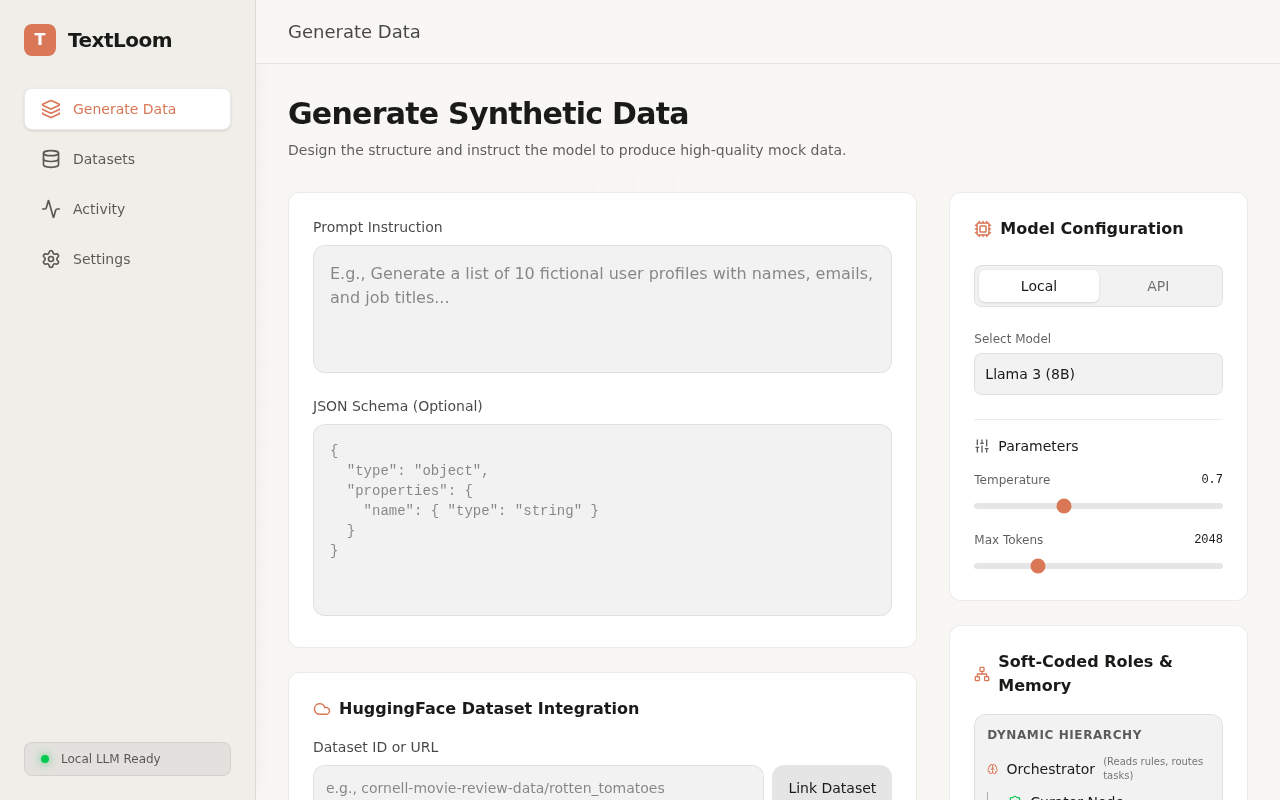
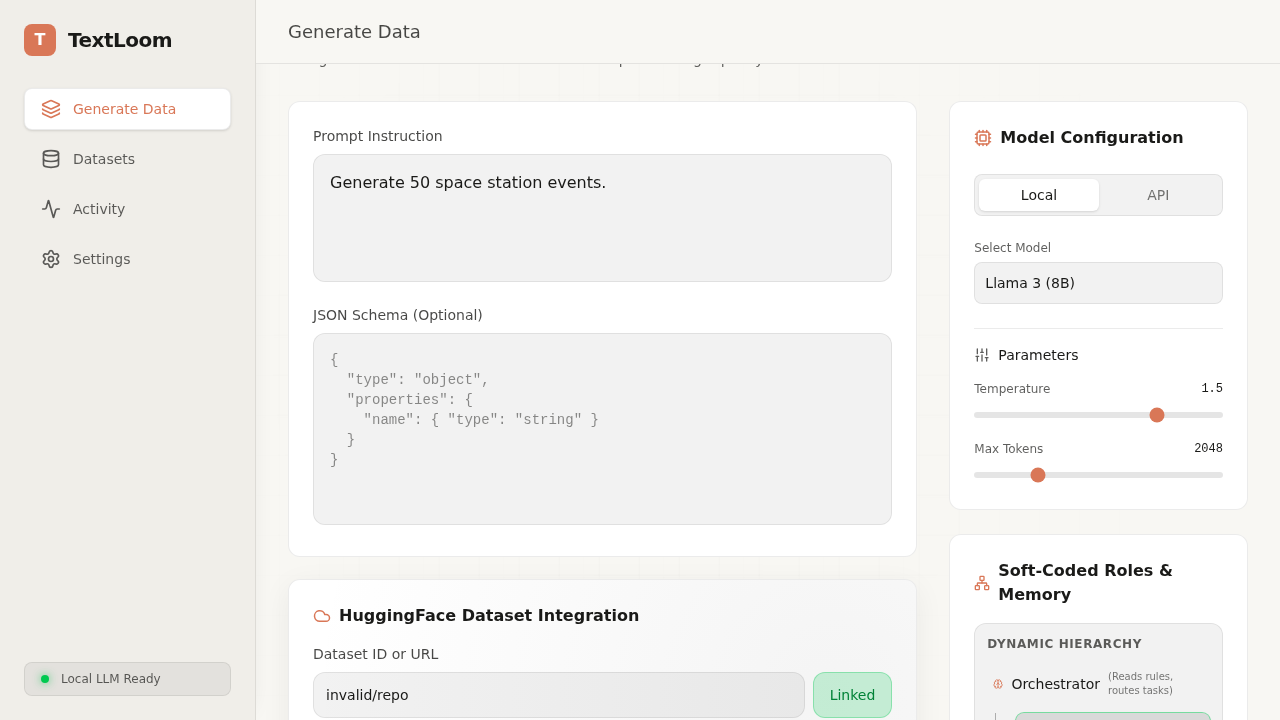
fix: logical flow issues, role memory, and graceful fallbacks
- Added missing state bindings for prompt instruction, json schema, and max tokens.
- Implemented role-specific memory so the UI can view/edit Orchestrator, Curator, and Student context.
- Improved graceful fallbacks for dataset linking, defaulting to manual mapping on API failure.
- Improved copy-to-clipboard reliability with a hidden textarea fallback.
- Added safety check for empty data array when rendering table headers.

diff --git a/src/components/DataGenerationForm.tsx b/src/components/DataGenerationForm.tsx
@@ -9,6 +9,10 @@ const DataGenerationForm: React.FC = () => {
   const [pipelineStrategy, setPipelineStrategy] = useState<'standard' | 'hierarchical'>('hierarchical');
   const [rowCount, setRowCount] = useState(1000);
 
+  const [promptInstruction, setPromptInstruction] = useState('');
+  const [jsonSchema, setJsonSchema] = useState('');
+  const [maxTokens, setMaxTokens] = useState(2048);
+
   const [recursiveCategorization, setRecursiveCategorization] = useState(true);
   const [curatorStudent, setCuratorStudent] = useState(true);
   const [diversityLoss, setDiversityLoss] = useState(true);
@@ -18,7 +22,13 @@ const DataGenerationForm: React.FC = () => {
   const [hfDatasetUrl, setHfDatasetUrl] = useState('');
   const [isDatasetLinked, setIsDatasetLinked] = useState(false);
   const [datasetScenario, setDatasetScenario] = useState('Read columns: input, output. Generate 100 new synthetic variations maintaining the same tone but switching to a sci-fi context. Reverse prompt from output if input is missing.');
-  const [orchestratorMemory, setOrchestratorMemory] = useState('- Current objective: Expanding math reasoning dataset.\n- Rule: Avoid repetitive phrasing in outputs.\n- Node mapping: Column \'question\' -> Node [Student Gen]\n- Auto-correction active: If output fails validation, retry with temperature 0.2');
+
+  const [activeRole, setActiveRole] = useState<'orchestrator' | 'curator' | 'student'>('orchestrator');
+  const [roleMemories, setRoleMemories] = useState({
+    orchestrator: '- Current objective: Expanding math reasoning dataset.\n- Rule: Avoid repetitive phrasing in outputs.\n- Node mapping: Column \'question\' -> Node [Student Gen]\n- Auto-correction active: If output fails validation, retry with temperature 0.2',
+    curator: '',
+    student: ''
+  });
 
   const [isLoadingDataset, setIsLoadingDataset] = useState(false);
   const [datasetError, setDatasetError] = useState('');
@@ -71,11 +81,9 @@ const DataGenerationForm: React.FC = () => {
       setIsDatasetLinked(true);
     } catch (err: unknown) {
       console.error("Dataset linking error:", err);
-      if (err instanceof Error) {
-        setDatasetError(err.message || 'Failed to link dataset');
-      } else {
-        setDatasetError('Failed to link dataset');
-      }
+      setDatasetError((err instanceof Error ? err.message : 'Failed to link dataset') + ' - Falling back to manual mapping.');
+      setDatasetScenario('Unable to automatically fetch columns.\n\nInstructions:\n1. Manually map your dataset columns here.\n2. Provide specific generation rules.');
+      setIsDatasetLinked(true);
     } finally {
       setIsLoadingDataset(false);
     }
@@ -96,6 +104,8 @@ const DataGenerationForm: React.FC = () => {
             <textarea
               className="w-full h-32 p-4 rounded-xl bg-black/5 dark:bg-white/5 border border-[var(--border-color)] focus:outline-none focus:ring-2 focus:ring-[var(--accent-color)] smooth-transition resize-none placeholder-opacity-50"
               placeholder="E.g., Generate a list of 10 fictional user profiles with names, emails, and job titles..."
+              value={promptInstruction}
+              onChange={(e) => setPromptInstruction(e.target.value)}
             ></textarea>
           </div>
 
@@ -105,6 +115,8 @@ const DataGenerationForm: React.FC = () => {
               <textarea
                 className="relative w-full h-48 p-4 rounded-xl bg-black/5 dark:bg-white/5 border border-[var(--border-color)] focus:outline-none focus:ring-2 focus:ring-[var(--accent-color)] font-mono text-sm smooth-transition resize-none"
                 placeholder={`{\n  "type": "object",\n  "properties": {\n    "name": { "type": "string" }\n  }\n}`}
+                value={jsonSchema}
+                onChange={(e) => setJsonSchema(e.target.value)}
               ></textarea>
             </div>
           </div>
@@ -301,12 +313,13 @@ const DataGenerationForm: React.FC = () => {
                 <div>
                   <div className="flex justify-between text-xs mb-1">
                     <span className="opacity-70">Max Tokens</span>
-                    <span className="font-mono">2048</span>
+                    <span className="font-mono">{maxTokens}</span>
                   </div>
                   <input
                     type="range"
                     min="100" max="8000" step="100"
-                    defaultValue="2048"
+                    value={maxTokens}
+                    onChange={(e) => setMaxTokens(parseInt(e.target.value))}
                     className="w-full h-1.5 bg-black/10 dark:bg-white/10 rounded-lg appearance-none cursor-pointer accent-[var(--accent-color)]"
                   />
                 </div>
@@ -327,18 +340,27 @@ const DataGenerationForm: React.FC = () => {
             <div className="p-3 rounded-xl bg-black/5 dark:bg-white/5 border border-[var(--border-color)]">
               <h4 className="text-xs font-semibold opacity-70 mb-3 uppercase tracking-wider">Dynamic Hierarchy</h4>
               <div className="space-y-2">
-                <div className="flex items-center space-x-2 text-sm">
+                <div
+                  onClick={() => setActiveRole('orchestrator')}
+                  className={`flex items-center space-x-2 text-sm p-1.5 rounded-lg cursor-pointer smooth-transition ${activeRole === 'orchestrator' ? 'bg-black/10 dark:bg-white/10 shadow-sm ring-1 ring-[var(--accent-color)]/50' : 'hover:bg-black/5 dark:hover:bg-white/5'}`}
+                >
                   <Brain size={14} className="text-[var(--accent-color)]" />
                   <span className="font-medium">Orchestrator</span>
                   <span className="text-[10px] opacity-60">(Reads rules, routes tasks)</span>
                 </div>
-                <div className="pl-5 border-l border-black/10 dark:border-white/10 space-y-2 relative">
+                <div className="pl-5 border-l border-black/10 dark:border-white/10 space-y-2 relative ml-2">
                   <div className="absolute top-0 -left-[1px] w-[1px] h-3 bg-black/20 dark:bg-white/20"></div>
-                  <div className="flex items-center space-x-2 text-sm">
+                  <div
+                    onClick={() => setActiveRole('curator')}
+                    className={`flex items-center space-x-2 text-sm p-1.5 rounded-lg cursor-pointer smooth-transition ${activeRole === 'curator' ? 'bg-black/10 dark:bg-white/10 shadow-sm ring-1 ring-green-500/50' : 'hover:bg-black/5 dark:hover:bg-white/5'}`}
+                  >
                     <ShieldCheck size={14} className="text-green-500" />
                     <span>Curator Node</span>
                   </div>
-                  <div className="flex items-center space-x-2 text-sm">
+                  <div
+                    onClick={() => setActiveRole('student')}
+                    className={`flex items-center space-x-2 text-sm p-1.5 rounded-lg cursor-pointer smooth-transition ${activeRole === 'student' ? 'bg-black/10 dark:bg-white/10 shadow-sm ring-1 ring-blue-500/50' : 'hover:bg-black/5 dark:hover:bg-white/5'}`}
+                  >
                     <Users size={14} className="text-blue-500" />
                     <span>Student / Gen Node</span>
                   </div>
@@ -348,21 +370,30 @@ const DataGenerationForm: React.FC = () => {
 
             <div>
               <div className="flex items-center justify-between mb-2">
-                <label className="text-sm font-medium opacity-80">Orchestrator Memory</label>
+                <label className="text-sm font-medium opacity-80">{activeRole.charAt(0).toUpperCase() + activeRole.slice(1)} Memory</label>
                 <div className="flex space-x-1">
                   <button className="p-1 hover:bg-black/10 dark:hover:bg-white/10 rounded smooth-transition" title="Save Memory State">
                     <Save size={12} className="opacity-70" />
                   </button>
-                  <button className="p-1 hover:bg-black/10 dark:hover:bg-white/10 rounded smooth-transition" title="Reset Memory">
+                  <button
+                    onClick={() => setRoleMemories(prev => ({
+                      ...prev,
+                      [activeRole]: activeRole === 'orchestrator'
+                        ? '- Current objective: Expanding math reasoning dataset.\n- Rule: Avoid repetitive phrasing in outputs.\n- Node mapping: Column \'question\' -> Node [Student Gen]\n- Auto-correction active: If output fails validation, retry with temperature 0.2'
+                        : ''
+                    }))}
+                    className="p-1 hover:bg-black/10 dark:hover:bg-white/10 rounded smooth-transition"
+                    title="Reset Memory"
+                  >
                     <RefreshCw size={12} className="opacity-70" />
                   </button>
                 </div>
               </div>
               <textarea
-                value={orchestratorMemory}
-                onChange={(e) => setOrchestratorMemory(e.target.value)}
+                value={roleMemories[activeRole]}
+                onChange={(e) => setRoleMemories(prev => ({ ...prev, [activeRole]: e.target.value }))}
                 className="w-full h-32 p-3 rounded-xl bg-[var(--bg-color)] border border-[var(--border-color)] focus:outline-none focus:ring-2 focus:ring-[var(--accent-color)] smooth-transition resize-y text-xs font-mono opacity-90 leading-relaxed"
-                placeholder="Memory area for the Orchestrator to store rules, state, and corrections..."
+                placeholder={`Memory area for the ${activeRole.charAt(0).toUpperCase() + activeRole.slice(1)} to store rules, state, and corrections...`}
               ></textarea>
               <p className="text-[10px] opacity-50 mt-1">
                 This context is fluid and persists across generation batches. The LLM can edit this to self-correct.

diff --git a/src/components/ResultsView.tsx b/src/components/ResultsView.tsx
@@ -28,8 +28,27 @@ const ResultsView: React.FC = () => {
     }
   ];
 
-  const handleCopy = () => {
-    navigator.clipboard.writeText(JSON.stringify(dummyData, null, 2));
+  const handleCopy = async () => {
+    const text = JSON.stringify(dummyData, null, 2);
+    try {
+      await navigator.clipboard.writeText(text);
+    } catch (err) {
+      console.warn("Clipboard API failed, using fallback.", err);
+      const textArea = document.createElement("textarea");
+      textArea.value = text;
+      textArea.style.position = "fixed";
+      textArea.style.left = "-999999px";
+      textArea.style.top = "-999999px";
+      document.body.appendChild(textArea);
+      textArea.focus();
+      textArea.select();
+      try {
+        document.execCommand('copy');
+      } catch (e) {
+        console.error("Fallback copy failed", e);
+      }
+      textArea.remove();
+    }
     setCopied(true);
     setTimeout(() => setCopied(false), 2000);
   };
@@ -106,7 +125,7 @@ const ResultsView: React.FC = () => {
               <table className="w-full text-left border-collapse">
                 <thead>
                   <tr className="border-b border-[var(--border-color)]">
-                    {Object.keys(dummyData[0]).map((key) => (
+                    {dummyData.length > 0 && Object.keys(dummyData[0]).map((key) => (
                       <th key={key} className="p-3 text-xs font-medium opacity-70 uppercase tracking-wider">
                         {key}
                       </th>
